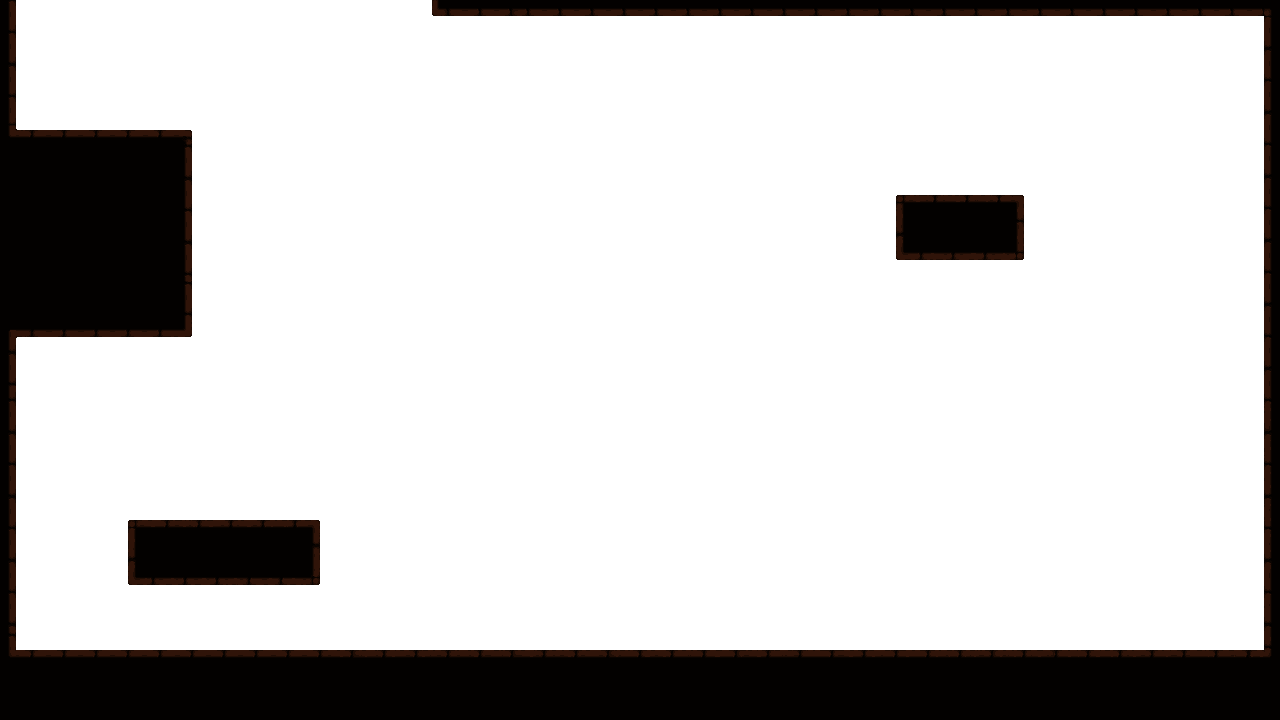
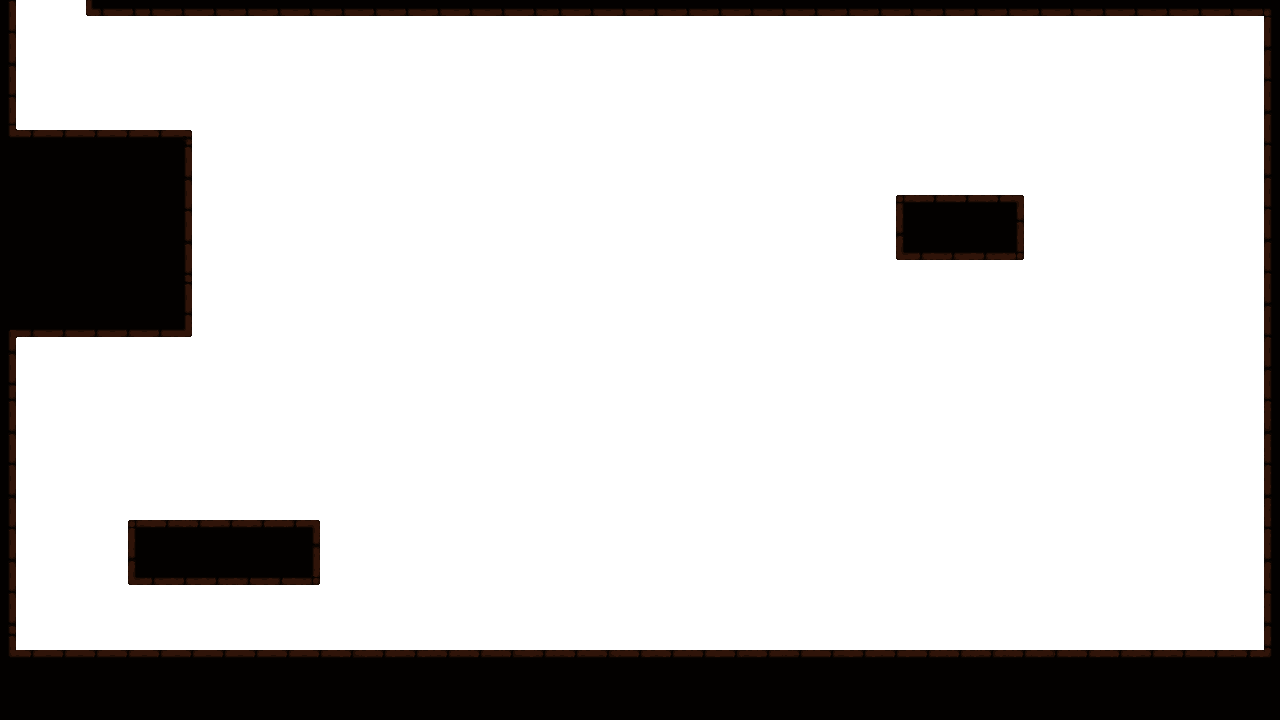
added-colision-border

Changed region(s): [[0.0625, 0.0, 0.3438, 0.0306]]

diff --git a/sprite.py b/sprite.py
@@ -64,15 +64,15 @@ class Sprite:
 
     # Отображает статистику персонажа
     def statistic_person(self):
-        x_health = 0
-        health_img = Graphic_elements(0,0,SCREEN_W//30,SCREEN_W/40,"image/Health.png")
+        x_health = SCREEN_W-SCREEN_W/5
+        health_img = Graphic_elements(0,SCREEN_H-SCREEN_H//15,SCREEN_W//30,SCREEN_W/40,"image/Health.png")
         for i in range(3):
             health_img.path = "image/Slot_Health.png"
             health_img.X = x_health
             health_img.image_load()
             health_img.show_image(screen)
             x_health += SCREEN_W//25
-        x_health = 0
+        x_health = SCREEN_W-SCREEN_W/5
         for i in range(self.health):
             health_img.path = "image/Health.png"
             health_img.X = x_health
@@ -134,7 +134,7 @@ class Sprite:
     # Функция которая отвечает за анимации персонажа
     def sprite_move(self):  
         keys = key.get_pressed()        
-        if keys[self.List_layout[self.index_layout][0]] and self.image_sprite.X > 5 and self.move_left:
+        if keys[self.List_layout[self.index_layout][0]] and self.image_sprite.X > SCREEN_W//80 and self.move_left:
             self.image_sprite.X -= self.speed
             self.flag = "L"
             if self.index == 7:
@@ -146,7 +146,7 @@ class Sprite:
                 self.index2 = 0
             self.index2 += 1
             
-        elif keys[self.List_layout[self.index_layout][1]] and self.image_sprite.X < self.border_width - self.image_sprite.WIDTH and self.move_right:
+        elif keys[self.List_layout[self.index_layout][1]] and self.image_sprite.X < self.border_width - self.image_sprite.WIDTH - SCREEN_W//80 and self.move_right:
             self.image_sprite.X += self.speed
             self.flag = "R"  
             if self.index == 7:
@@ -192,12 +192,10 @@ class Sprite:
                     self.image_sprite.image_load()
                 self.image_sprite.Y -= self.jummp_boost//15
                 self.count += 1
-                if self.move_up == False:
+                if self.move_up == False or self.count == 15 or self.image_sprite.Y <= SCREEN_W//80:
                     self.fly_up = False
                     self.count = 0
-                if self.count == 15:
-                    self.fly_up = False
-                    self.count = 0                
+
     # Гравитация  смена индексов и картинок   
     def sprite_gravity(self): 
         if self.double_jump != None:
@@ -304,6 +302,7 @@ class Sprite:
             self.flag_spring -= 1
         for i in dict_list_border["list_border_cor_spring"]:
             if i[-1] == "П": 
+                
                 rect = i[-2].RECT   
                 rect = Rect(rect.x + rect.width//8,rect.y - rect.width//10,rect.width - rect.width//4,1)
                 rect_sprite = Rect(self.image_sprite.X,self.image_sprite.Y,self.image_sprite.WIDTH,self.image_sprite.HEIGHT)
@@ -355,7 +354,7 @@ class Sprite:
             if self.move_up == False:
                 self.fly_up_spring = False
                 self.count = 0
-            if self.count == 15:
+            if self.count == 10:
                 self.fly_up_spring = False
                 self.count = 0                
     # Проверка движения в право    

diff --git a/surface.py b/surface.py
@@ -19,15 +19,14 @@ list_surface_lvl1_location_1 = [
                 list('Л0000000000000000000'),
                 list('ъ0000000000000000000'),
                 list('bbb00000000000000000'),
-                list('bbb00ccc000000bbЪ000'),
-                list('bbb0000000Д000000000'),
+                list('bbb00000000000bbЪ000'),
+                list('bbb00ccc00Д000000000'),
                 list('00000000000000000000'),
                 list('00000000000s00000cc0'),
                 list('0000000PPppppppp0000'),
                 list('00bbb000000000000000'),
                 list('000000000000000шшшшш'),
                 list('bbbbbbbbbbbbbbbbbbbb'),
-                list('00000000000000000000')
 ]
 #Матрица для второй локации первого уровня
 list_surface_lvl1_location_2 = [
@@ -42,7 +41,6 @@ list_surface_lvl1_location_2 = [
                 list('000bb000000000000000'),
                 list('00000000000000000000'),
                 list('bbbbbbbbbbbbbbbbbbbb'),
-                list('00000000000000000000')
 ]
 #Матрица для третий локации первого уровня
 list_surface_lvl1_location_3 = [
@@ -57,7 +55,6 @@ list_surface_lvl1_location_3 = [
                 list('000l000000c000000000'),
                 list('00000000000000000000'),
                 list('bbbbbbbbbbbbbbbbbbbb'),
-                list('00000000000000000000')
 ]
 #Матрица для четвертой локации первого уровня
 list_surface_lvl1_location_4 = [
@@ -72,7 +69,6 @@ list_surface_lvl1_location_4 = [
                 list('000bb000000b00000ъ00'),
                 list('00000000000b00000000'),
                 list('bbbbbbbbbbbbbbbbbbbb'),
-                list('00000000000000000000')
 ]
 #Список локаций первого уровня
 list_surface_lvl1 = [list_surface_lvl1_location_1,list_surface_lvl1_location_2,list_surface_lvl1_location_3,list_surface_lvl1_location_4]

diff --git a/object.py b/object.py
@@ -9,8 +9,8 @@ init() #Инициализируем pygame
 #Создаем спрайт и его настройки для создание графических елементов
 sprite1 = Sprite(
                     name_image="1", #Имя картинки
-                    sprite_x = 0, #Горизонтальное расположение спрайта
-                    sprite_y = SCREEN_H-SCREEN_H//10*2.5, #Вертикальное расположение спрайта
+                    sprite_x = dict_spawn_and_finish_point["lvl1_location_1"][0][0], #Горизонтальное расположение спрайта
+                    sprite_y = dict_spawn_and_finish_point["lvl1_location_1"][0][1], #Вертикальное расположение спрайта
                     sprite_speed = SCREEN_W//100, #Скорость спрайта
                     sprite_width = SCREEN_W//20, #Ширина спрайта
                     sprite_height = SCREEN_H//11*1.66, #Высота спрайта

diff --git a/main.py b/main.py
@@ -41,8 +41,7 @@ def run_game():
                 i[-2].show_image(screen)
             for i in dict_list_border["list_border_cor_ladder"]:
                 i[-2].show_image(screen)
-            for i in dict_list_border["list_border_cor_spring"]:
-                i[-2].show_image(screen)
+            
             for i in dict_list_border["list_border_cor_cracking"]:
                 i[-2].show_image(screen)
 
@@ -126,6 +125,8 @@ def run_game():
             black_fon.show_image(screen)
             sprite1.statistic_person() #Статистика игрока
             sprite1.ghost(screen)
+            for i in dict_list_border["list_border_cor_spring"]:
+                i[-2].show_image(screen)
             if dict_argument["index_location"] == 0:
                 #Создаем дверь и кнопку
                 door_and_button(4,7,None,None,"Д","д",sprite1)

diff --git a/module.py b/module.py
@@ -862,3 +862,4 @@ def shooting_lvl(screen,min_count_point,barriers):
         clock.tick(FPS*2)
         # print(clock.get_fps())
         display.update()
+    mouse.set_visible(True)
